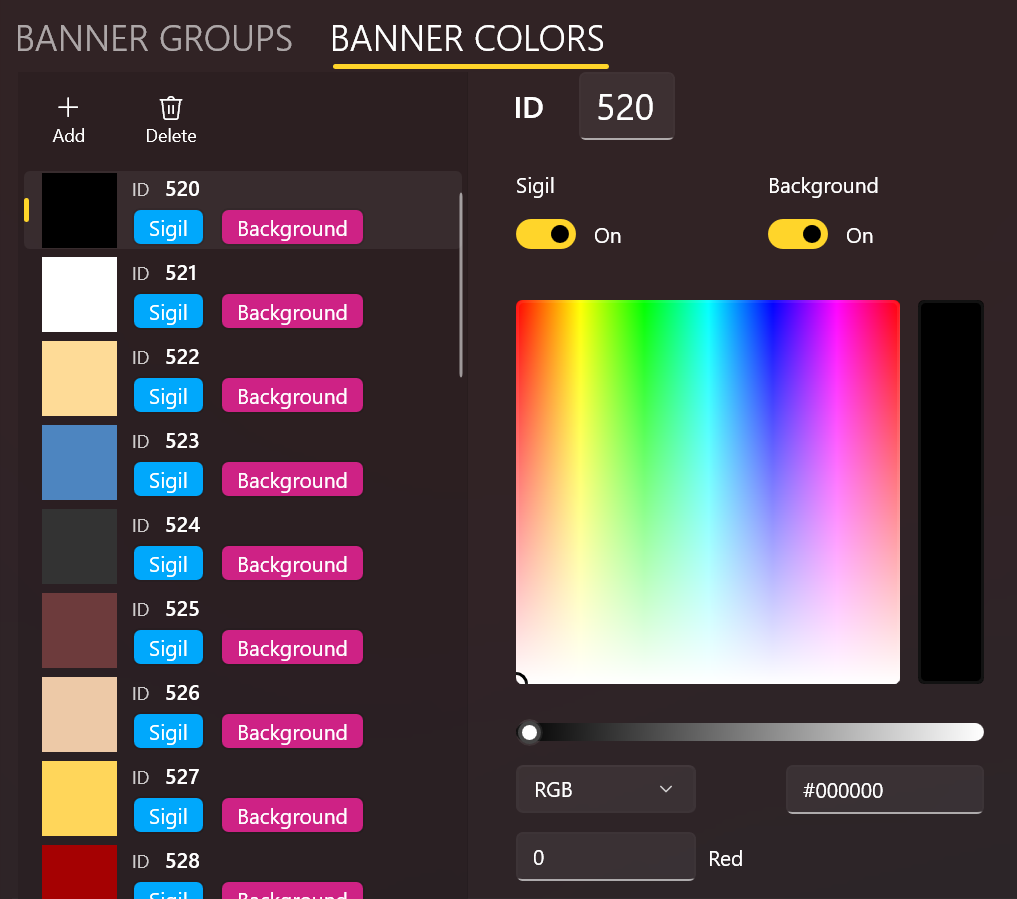
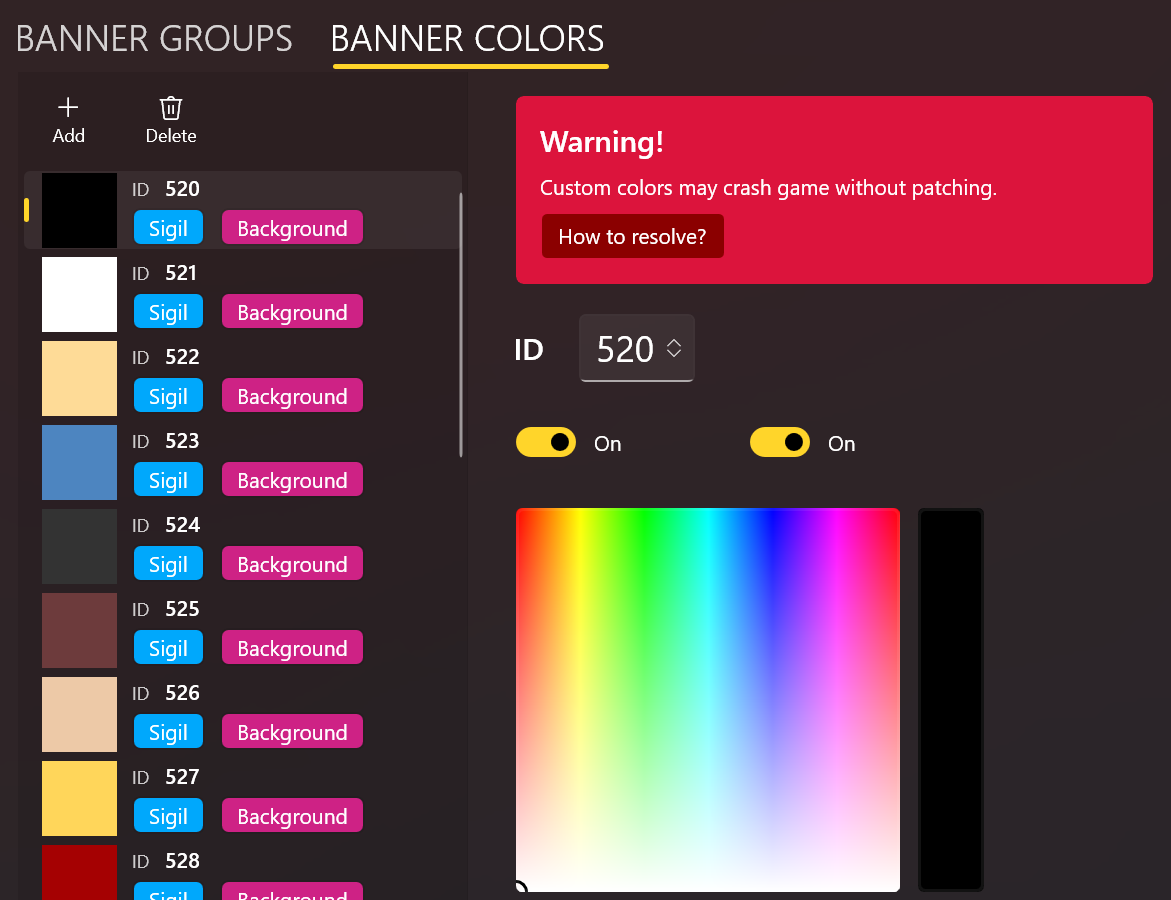
Update docs (#17)
* add the warning in the Color Editor

* add the help link in settings

* add a footer nav menu item for help

* change the start ID ranges in the settings

* update the doc

diff --git a/BLIT.Win/Pages/BannerIcons/BannerColorsEditor.xaml b/BLIT.Win/Pages/BannerIcons/BannerColorsEditor.xaml
@@ -37,6 +37,11 @@
             TargetType="Border">
             <Setter Property="Background" Value="#ce2285" />
         </Style>
+        <Style x:Key="ColorWarningBoxStyle" TargetType="Border">
+            <Setter Property="Background" Value="Crimson" />
+            <Setter Property="Padding" Value="16" />
+            <Setter Property="CornerRadius" Value="5" />
+        </Style>
     </UserControl.Resources>
 
     <Grid>
@@ -107,69 +112,101 @@
             </ListView>
             <!--  Color Editor  -->
         </Grid>
-        <Grid
-            Grid.Column="1"
-            Width="400"
-            Padding="32,0"
-            HorizontalAlignment="Left"
-            RowSpacing="20"
-            Visibility="{x:Bind HasSelectedColor}">
-            <Grid.ColumnDefinitions>
-                <ColumnDefinition Width="*" />
-                <ColumnDefinition Width="*" />
-            </Grid.ColumnDefinitions>
-            <Grid.RowDefinitions>
-                <RowDefinition Height="Auto" />
-                <RowDefinition Height="Auto" />
-                <RowDefinition Height="Auto" />
-            </Grid.RowDefinitions>
-            <StackPanel
-                Orientation="Horizontal"
-                Spacing="16"
-                Visibility="{x:Bind IsSingleSelected, Mode=OneWay}">
-                <TextBlock VerticalAlignment="Center" Style="{ThemeResource SubtitleTextBlockStyle}">ID</TextBlock>
-                <NumberBox
-                    x:Name="numColorID"
-                    Grid.ColumnSpan="2"
-                    Margin="8,0"
-                    VerticalAlignment="Center"
-                    AcceptsExpression="True"
-                    FontSize="24"
-                    Maximum="99999999"
-                    SpinButtonPlacementMode="Compact"
-                    Value="{x:Bind FirstSelectedColor.ID, Mode=TwoWay}" />
-            </StackPanel>
-            <StackPanel
-                Grid.ColumnSpan="2"
-                Orientation="Horizontal"
-                Spacing="5"
-                Visibility="{x:Bind IsMultipleSelection, Mode=OneWay}">
-                <TextBlock
-                    Margin="0"
-                    Padding="0"
-                    VerticalAlignment="Bottom"
-                    Style="{ThemeResource SubheaderTextBlockStyle}"
-                    Text="{x:Bind SelectedColorIDs, Mode=OneWay}" />
-                <TextBlock
-                    VerticalAlignment="Bottom"
-                    FontWeight="Light"
-                    Style="{ThemeResource FlyoutPickerTitleTextBlockStyle}"
-                    Text="{x:Bind MoreColorsText, Mode=OneWay}" />
-            </StackPanel>
-            <StackPanel Grid.Row="1" Orientation="Horizontal">
-                <ToggleSwitch Header="{x:Bind helpers:I18n.Current.GetString('TextColorForSigil/Text')}" IsOn="{x:Bind IsForSigil, Mode=TwoWay}" />
-            </StackPanel>
-            <StackPanel
-                Grid.Row="1"
-                Grid.Column="1"
-                Orientation="Horizontal">
-                <ToggleSwitch Header="{x:Bind helpers:I18n.Current.GetString('TextColorForBackground/Text')}" IsOn="{x:Bind IsForBackground, Mode=TwoWay}" />
-            </StackPanel>
-            <ColorPicker
-                Grid.Row="2"
-                Grid.ColumnSpan="2"
-                Visibility="{x:Bind IsSingleSelected, Mode=OneWay}"
-                Color="{x:Bind FirstSelectedColor.Color, Mode=TwoWay}" />
+        <Grid Grid.Column="1">
+            <ScrollViewer>
+                <Grid
+                    Padding="32,16"
+                    HorizontalAlignment="Left"
+                    RowSpacing="20"
+                    Visibility="{x:Bind HasSelectedColor}">
+                    <Grid.ColumnDefinitions>
+                        <ColumnDefinition Width="*" />
+                        <ColumnDefinition Width="*" />
+                        <ColumnDefinition Width="*" />
+                    </Grid.ColumnDefinitions>
+                    <Grid.RowDefinitions>
+                        <RowDefinition Height="Auto" />
+                        <RowDefinition Height="Auto" />
+                        <RowDefinition Height="Auto" />
+                        <RowDefinition Height="Auto" />
+                    </Grid.RowDefinitions>
+                    <Border
+                        Grid.Row="0"
+                        Grid.ColumnSpan="3"
+                        Style="{StaticResource ColorWarningBoxStyle}">
+                        <StackPanel Spacing="8">
+                            <TextBlock
+                                x:Uid="TextWarningHeader"
+                                Foreground="White"
+                                Style="{ThemeResource SubtitleTextBlockStyle}">
+                                Warning!
+                            </TextBlock>
+                            <TextBlock
+                                x:Uid="TextColorWarning"
+                                Foreground="White"
+                                TextWrapping="WrapWholeWords">
+                                Custom colors may crash game without patching.
+                            </TextBlock>
+                            <HyperlinkButton
+                                x:Uid="LinkColorWarning"
+                                Background="DarkRed"
+                                Foreground="White"
+                                NavigateUri="https://blit.0x1.best/banner-icons-editor/#2-manage-custom-color:~:text=DO%20NOT%20add%20any%20custom%20color%20if%20you%3A">
+                                How to resolve?
+                            </HyperlinkButton>
+                        </StackPanel>
+                    </Border>
+                    <StackPanel
+                        Grid.Row="1"
+                        Orientation="Horizontal"
+                        Spacing="16"
+                        Visibility="{x:Bind IsSingleSelected, Mode=OneWay}">
+                        <TextBlock VerticalAlignment="Center" Style="{ThemeResource SubtitleTextBlockStyle}">ID</TextBlock>
+                        <NumberBox
+                            x:Name="numColorID"
+                            Grid.ColumnSpan="2"
+                            Margin="8,0"
+                            VerticalAlignment="Center"
+                            AcceptsExpression="True"
+                            FontSize="24"
+                            Maximum="99999999"
+                            SpinButtonPlacementMode="Compact"
+                            Value="{x:Bind FirstSelectedColor.ID, Mode=TwoWay}" />
+                    </StackPanel>
+                    <StackPanel
+                        Grid.Row="1"
+                        Grid.ColumnSpan="2"
+                        Orientation="Horizontal"
+                        Spacing="5"
+                        Visibility="{x:Bind IsMultipleSelection, Mode=OneWay}">
+                        <TextBlock
+                            Margin="0"
+                            Padding="0"
+                            VerticalAlignment="Bottom"
+                            Style="{ThemeResource SubheaderTextBlockStyle}"
+                            Text="{x:Bind SelectedColorIDs, Mode=OneWay}" />
+                        <TextBlock
+                            VerticalAlignment="Bottom"
+                            FontWeight="Light"
+                            Style="{ThemeResource FlyoutPickerTitleTextBlockStyle}"
+                            Text="{x:Bind MoreColorsText, Mode=OneWay}" />
+                    </StackPanel>
+                    <StackPanel Grid.Row="2" Orientation="Horizontal">
+                        <ToggleSwitch Header="{x:Bind helpers:I18n.Current.GetString('TextColorForSigil/Text')}" IsOn="{x:Bind IsForSigil, Mode=TwoWay}" />
+                    </StackPanel>
+                    <StackPanel
+                        Grid.Row="2"
+                        Grid.Column="1"
+                        Orientation="Horizontal">
+                        <ToggleSwitch Header="{x:Bind helpers:I18n.Current.GetString('TextColorForBackground/Text')}" IsOn="{x:Bind IsForBackground, Mode=TwoWay}" />
+                    </StackPanel>
+                    <ColorPicker
+                        Grid.Row="3"
+                        Grid.ColumnSpan="2"
+                        Visibility="{x:Bind IsSingleSelected, Mode=OneWay}"
+                        Color="{x:Bind FirstSelectedColor.Color, Mode=TwoWay}" />
+                </Grid>
+            </ScrollViewer>
         </Grid>
     </Grid>
 </UserControl>

diff --git a/BLIT.Win/Pages/Settings/SettingsPage.xaml b/BLIT.Win/Pages/Settings/SettingsPage.xaml
@@ -70,7 +70,7 @@
                         VerticalAlignment="Top"
                         AcceptsExpression="True"
                         Maximum="99999"
-                        Minimum="1"
+                        Minimum="7"
                         SpinButtonPlacementMode="Compact"
                         Value="{Binding BannerSettings.CustomGroupStartID, Mode=TwoWay}" />
                     <!--  Color start ID  -->
@@ -87,8 +87,8 @@
                         Width="200"
                         VerticalAlignment="Top"
                         AcceptsExpression="True"
-                        Maximum="9999999"
-                        Minimum="0"
+                        Maximum="999999"
+                        Minimum="194"
                         SpinButtonPlacementMode="Compact"
                         Value="{Binding BannerSettings.CustomColorStartID, Mode=TwoWay}" />
                 </Grid>

diff --git a/BLIT.Win/MainWindow.xaml b/BLIT.Win/MainWindow.xaml
@@ -46,6 +46,15 @@
                     Icon="Flag"
                     Tag="BannerIcons" />
             </NavigationView.MenuItems>
+            <NavigationView.FooterMenuItems>
+                <NavigationViewItem
+                    x:Name="navHelp"
+                    x:Uid="AppNavMenuHelp"
+                    Content="Help"
+                    Icon="Help"
+                    SelectsOnInvoked="False"
+                    Tapped="navHelp_Tapped" />
+            </NavigationView.FooterMenuItems>
             <NavigationView.HeaderTemplate>
                 <DataTemplate x:DataType="local:NavPageHeaderInfo">
                     <StackPanel Orientation="Horizontal" Spacing="5">

diff --git a/docs/_includes/head/custom.html b/docs/_includes/head/custom.html
@@ -2,7 +2,7 @@
 <link rel="preconnect" href="https://fonts.googleapis.com">
 <link rel="preconnect" href="https://fonts.gstatic.com" crossorigin>
 <link
-  href="https://fonts.googleapis.com/css2?family=Cabin:ital,wght@0,400;0,700;1,400;1,700&family=Ubuntu+Mono&display=swap"
+  href="https://fonts.googleapis.com/css2?family=Cabin:ital,wght@0,400;0,700;1,400;1,700&family=Oxygen+Mono&display=swap"
   rel="stylesheet">
 <!-- insert favicons. use https://realfavicongenerator.net/ -->
 

diff --git a/docs/assets/css/main.scss b/docs/assets/css/main.scss
@@ -9,7 +9,7 @@ search: false
 $serif: Georgia, Times, serif;
 $sans-serif: "Cabin", "Fira Sans", -apple-system, BlinkMacSystemFont, "Roboto", "Segoe UI", "Helvetica Neue", "Lucida Grande", Arial,
   sans-serif;
-$monospace: "Ubuntu Mono", "Fira Code", "Roboto Mono", Monaco, Consolas, "Lucida Console", monospace;
+$monospace: "Oxygen Mono", "Fira Code", "Roboto Mono", Monaco, Consolas, "Lucida Console", monospace;
 
 $type-size-5: 0.875em !default; // ~14px
 

diff --git a/BLIT.Win/MainWindow.xaml.cs b/BLIT.Win/MainWindow.xaml.cs
@@ -13,6 +13,7 @@ using Microsoft.UI.Xaml.Media;
 using System;
 using System.Collections.Generic;
 using System.ComponentModel;
+using System.Diagnostics;
 using System.Linq;
 using System.Runtime.CompilerServices;
 using Windows.Storage;
@@ -93,6 +94,13 @@ public sealed partial class MainWindow : ThemedWindow
         };
     }
 
+    void navHelp_Tapped(object sender, Microsoft.UI.Xaml.Input.TappedRoutedEventArgs e)
+    {
+        Process.Start(new ProcessStartInfo {
+            FileName = I18n.Current.GetString("LinkHelpWebsite"),
+            UseShellExecute = true,
+        });
+    }
 
     public class ViewModel : INotifyPropertyChanged
     {

diff --git a/BLIT.Win/Settings/BannerSettings.cs b/BLIT.Win/Settings/BannerSettings.cs
@@ -14,7 +14,7 @@ public class BannerSettings
     [Key(1)]
     public Banner.OutputResolution TextureOutputResolution { get; set; }
 
-    int _customGroupStartID = 10000;
+    int _customGroupStartID = 7;
     [Key(2)]
     public int CustomGroupStartID
     {
@@ -30,7 +30,7 @@ public class BannerSettings
             Save();
         }
     }
-    int _customColorStartID = 500;
+    int _customColorStartID = 194;
     [Key(3)]
     public int CustomColorStartID
     {
